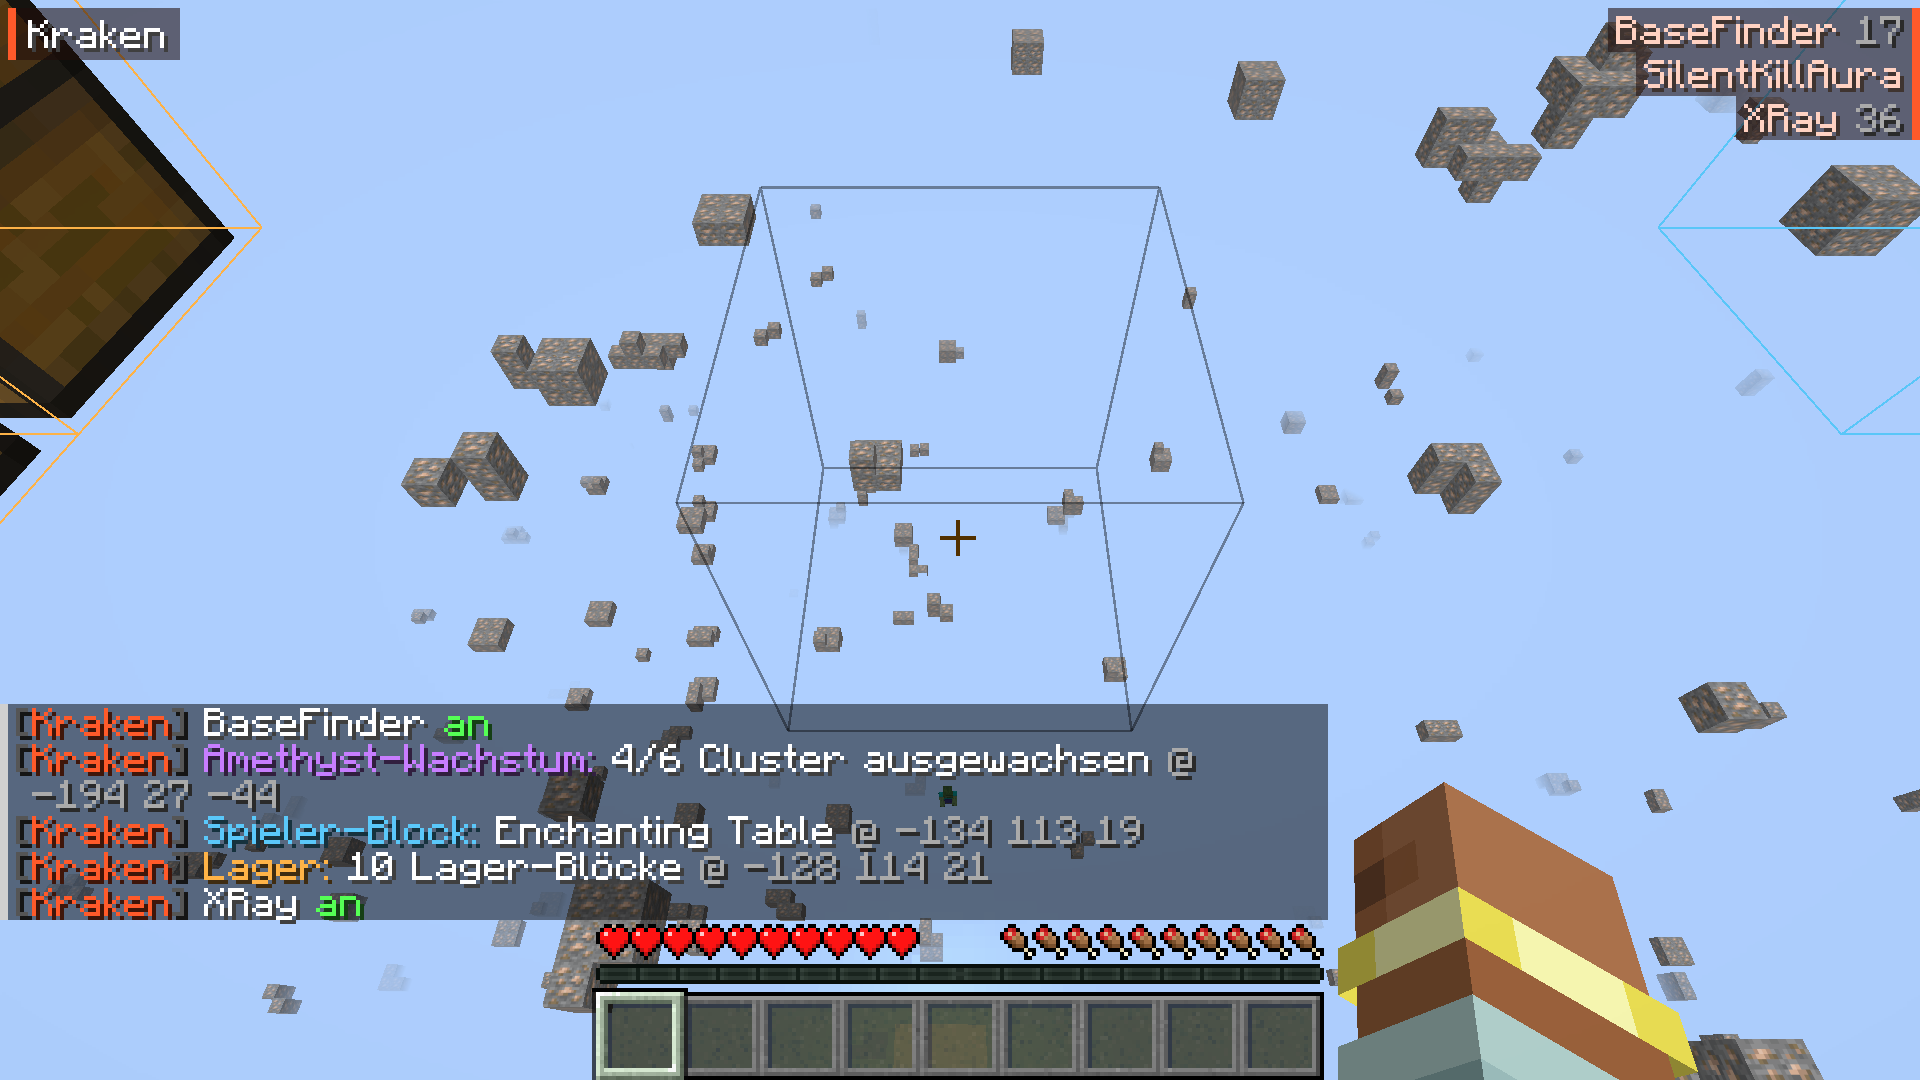
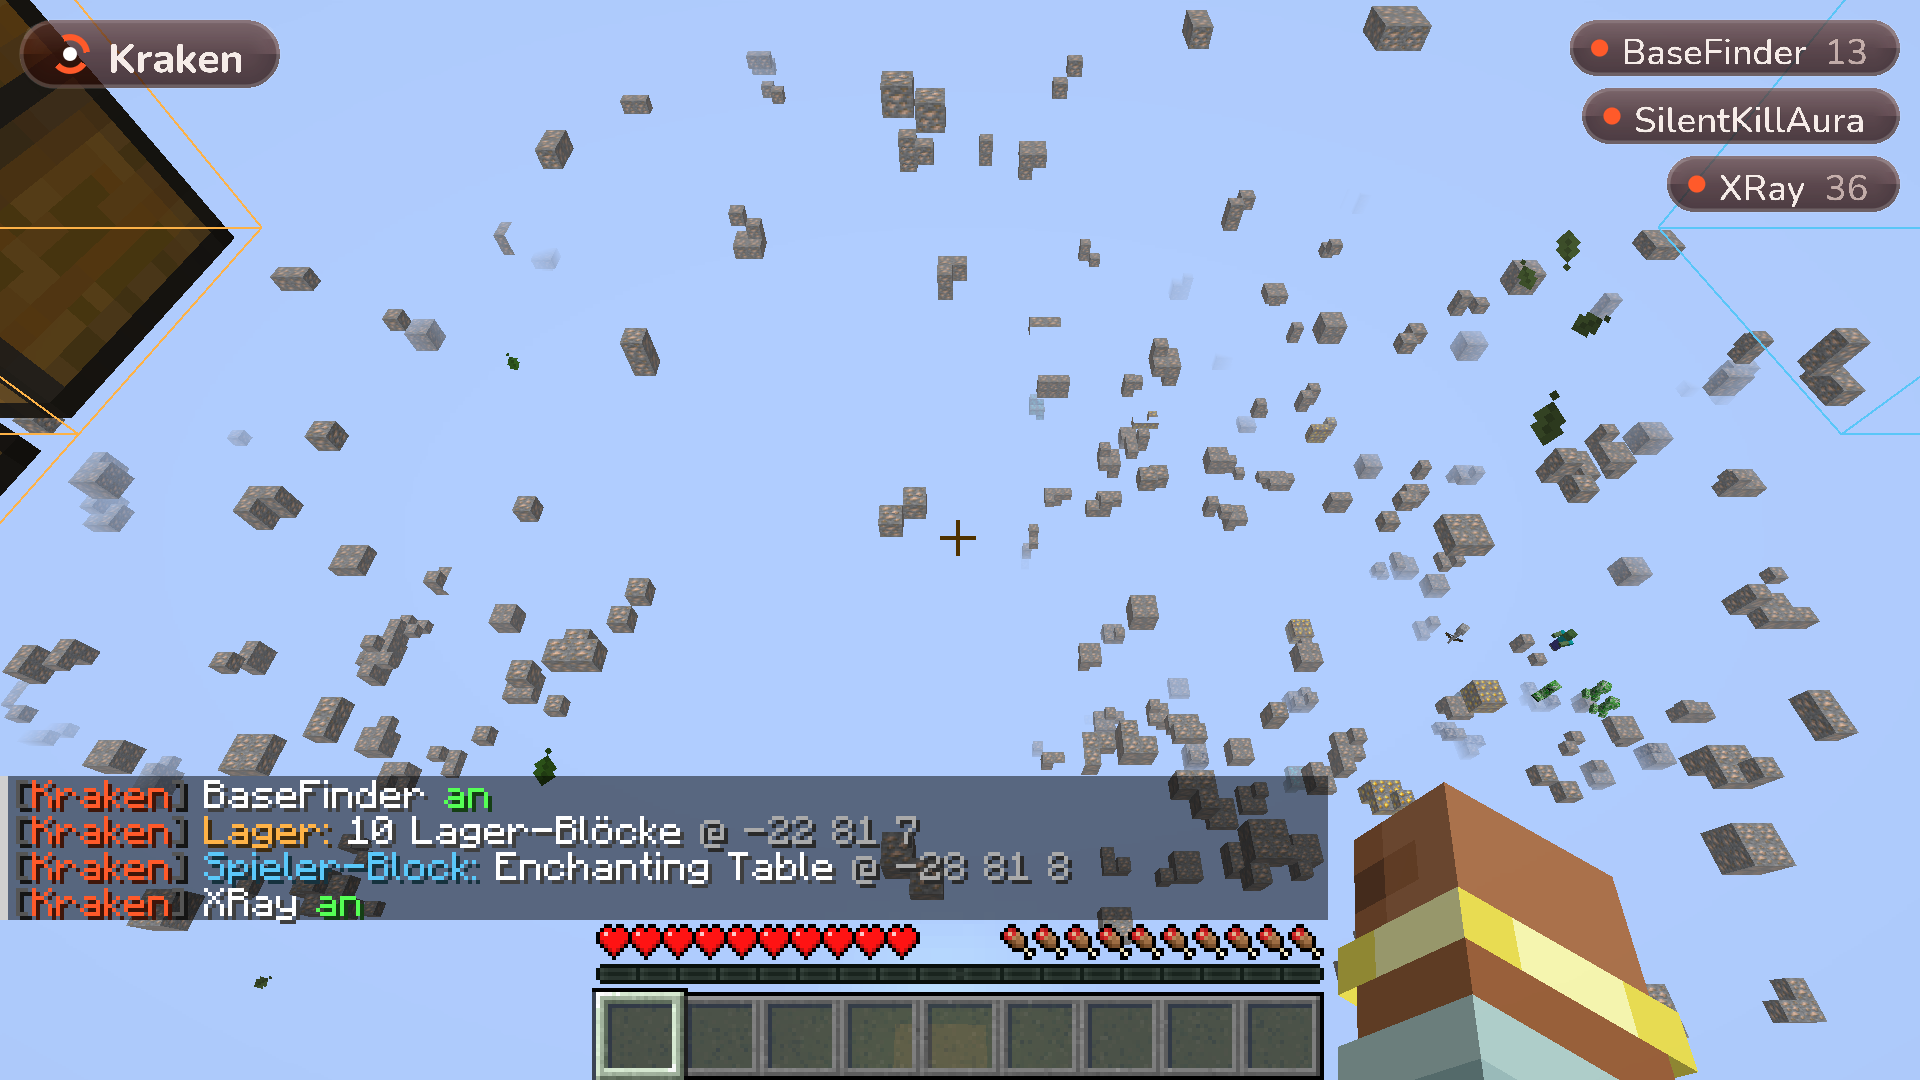
HUD: rounded frosted-glass pills in the style of the wheel
- Watermark pill with an animated orange ring logo and bold Nunito text
- Active modules as glass pills (warm gradient, shine, light rim, orange
  dot, dimmed info), sorted by width, sliding in/out when toggled
- Anti-aliased rounded-rectangle rim and gradient helpers in Shapes;
  shared font helper UiText

Claude-Session: https://claude.ai/code/session_01MUPP6yAn7mZPsT3PjRrRs4

diff --git a/src/main/java/dev/kraken/module/client/Hud.java b/src/main/java/dev/kraken/module/client/Hud.java
@@ -1,5 +1,7 @@
 package dev.kraken.module.client;
 
+import dev.kraken.gui.Shapes;
+import dev.kraken.gui.UiText;
 import dev.kraken.module.Category;
 import dev.kraken.module.Module;
 import dev.kraken.module.ModuleManager;
@@ -9,44 +11,117 @@ import net.minecraft.client.gui.GuiGraphicsExtractor;
 import net.minecraft.world.item.Items;
 
 import java.util.ArrayList;
-import java.util.Comparator;
+import java.util.HashMap;
 import java.util.List;
+import java.util.Map;
 
-/** Watermark + list of active modules in the top right corner. */
+/**
+ * Watermark + list of active modules in the style of the wheel: rounded frosted-glass pills with a
+ * light rim, the clean Nunito font and orange accents. Modules slide in and out when toggled.
+ */
 public class Hud extends Module {
+    private static final int GLASS_TOP = 0xAE4E1E10;
+    private static final int GLASS_BOTTOM = 0xC42C0F08;
+    private static final int RIM = 0x30FFFFFF;
+    private static final int SHINE = 0x16FFFFFF;
+    private static final int ACCENT = 0xFFFF5A2A;
+    private static final int TEXT = 0xFFF6ECE8;
+    private static final int TEXT_DIM = 0xB4F0D8D0;
+
     private final BoolSetting watermark = add(new BoolSetting("Wasserzeichen", "\"Kraken\" oben links anzeigen", true));
     private final BoolSetting moduleList = add(new BoolSetting("Modulliste", "Aktive Module oben rechts anzeigen", true));
+
+    /** 0..1 slide-in progress per module (1 = fully visible). */
+    private final Map<Module, Float> anim = new HashMap<>();
+    private long lastFrame = System.currentTimeMillis();
 
     public Hud() {
         super("HUD", "Wasserzeichen und Liste der aktiven Module.", Category.CLIENT, Items.ITEM_FRAME);
         loadEnabled(true);
     }
 
+    /** A glass pill: vertical gradient body, shine on the upper half, thin light rim. */
+    private static void pill(Shapes s, float x1, float y1, float x2, float y2) {
+        float r = (y2 - y1) / 2f;
+        s.roundRectGradient(x1, y1, x2, y2, r, GLASS_TOP, GLASS_BOTTOM);
+        s.roundRectGradient(x1 + 1f, y1 + 1f, x2 - 1f, y1 + (y2 - y1) * 0.5f, r * 0.8f, SHINE, 0x00FFFFFF);
+        s.roundRectRim(x1, y1, x2, y2, r, 0.75f, RIM);
+    }
+
     public void render(GuiGraphicsExtractor ctx) {
         if (mc.gui.hud.isHidden() || mc.getDebugOverlay().showDebugScreen()) return;
-        Font tr = mc.font;
+        long now = System.currentTimeMillis();
+        float dt = Math.min(0.1f, (now - lastFrame) / 1000f);
+        lastFrame = now;
+        Shapes.setPixelSize(1f / Math.max(1, mc.getWindow().getGuiScale()));
+        Font font = mc.font;
+        float margin = 5f;
+
+        // ---------------- watermark ----------------
         if (watermark.isOn()) {
-            ctx.fill(2, 2, 6 + tr.width("Kraken") + 4, 15, 0x90200C08);
-            ctx.fill(2, 2, 4, 15, 0xFFFF5A2A);
-            ctx.text(tr, "Kraken", 7, 5, 0xFFFFFFFF, true);
+            float h = 17f, x = margin, y = margin;
+            float tw = UiText.width(font, "Kraken", true);
+            float w = 8f + 9f + 5f + tw + 9f;
+            Shapes s = new Shapes();
+            pill(s, x, y, x + w, y + h);
+            // little logo: orange ring segment around a dot, like the wheel centre
+            float lx = x + 8f + 4.5f, ly = y + h / 2f;
+            float t = (now % 6000L) / 6000f * (float) (Math.PI * 2);
+            s.arc(lx, ly, 4.2f, 1.3f, t, t + 1.9f, ACCENT);
+            s.arc(lx, ly, 4.2f, 1.3f, t + 2.6f, t + 4.4f, ACCENT);
+            s.circle(lx, ly, 1.6f, 0xFFFFFFFF);
+            s.submit(ctx);
+            UiText.left(ctx, font, "Kraken", x + 8f + 9f + 5f, ly + 0.5f, 1f, TEXT, true);
         }
         if (!moduleList.isOn()) return;
 
-        List<String> lines = new ArrayList<>();
+        // ---------------- module list ----------------
+        List<Module> shown = new ArrayList<>();
         for (Module m : ModuleManager.get().getModules()) {
-            if (!m.isEnabled() || m.getCategory() == Category.CLIENT) continue;
+            if (m.getCategory() == Category.CLIENT) continue;
+            float a = anim.getOrDefault(m, 0f);
+            float target = m.isEnabled() ? 1f : 0f;
+            a += (target - a) * Math.min(1f, dt * 12f);
+            if (Math.abs(a - target) < 0.005f) a = target;
+            anim.put(m, a);
+            if (a > 0.001f) shown.add(m);
+        }
+        shown.sort((m1, m2) -> Float.compare(pillWidth(font, m2), pillWidth(font, m1)));
+
+        float sw = ctx.guiWidth();
+        float h = 14f, gap = 3f;
+        float y = margin;
+        Shapes s = new Shapes();
+        List<Runnable> texts = new ArrayList<>();
+        for (Module m : shown) {
+            float a = anim.get(m);
+            float e = 1 - (float) Math.pow(1 - a, 3);   // ease out
+            float w = pillWidth(font, m);
+            float x2 = sw - margin + (1 - e) * (w + margin + 4f); // slide in from the right
+            float x1 = x2 - w;
+            float y1 = y, y2 = y + h;
+            pill(s, x1, y1, x2, y2);
+            s.circle(x1 + 7.5f, y1 + h / 2f, 2f, Shapes.alpha(ACCENT, e));
+            String name = m.getName();
             String info = m.getInfo();
-            lines.add(info == null ? m.getName() : m.getName() + " §7" + info);
+            float nx = x1 + 13f;
+            float ty = y1 + h / 2f + 0.5f;
+            int nameColor = Shapes.alpha(TEXT, e), infoColor = Shapes.alpha(TEXT_DIM, e);
+            texts.add(() -> UiText.left(ctx, font, name, nx, ty, 0.9f, nameColor, false));
+            if (info != null) {
+                float ix = nx + UiText.width(font, name, false) * 0.9f + 4f;
+                texts.add(() -> UiText.left(ctx, font, info, ix, ty, 0.9f, infoColor, false));
+            }
+            y += (h + gap) * e;
         }
-        lines.sort(Comparator.comparingInt((String l) -> tr.width(l)).reversed());
-        int y = 2;
-        int sw = ctx.guiWidth();
-        for (String line : lines) {
-            int w = tr.width(line);
-            ctx.fill(sw - w - 6, y, sw, y + 11, 0x90200C08);
-            ctx.fill(sw - 2, y, sw, y + 11, 0xFFFF5A2A);
-            ctx.text(tr, line, sw - w - 4, y + 2, 0xFFFFD2C2, true);
-            y += 11;
-        }
+        s.submit(ctx);
+        for (Runnable r : texts) r.run();
+    }
+
+    private static float pillWidth(Font font, Module m) {
+        float w = UiText.width(font, m.getName(), false) * 0.9f;
+        String info = m.getInfo();
+        if (info != null) w += 4f + UiText.width(font, info, false) * 0.9f;
+        return 13f + w + 8f;
     }
 }

diff --git a/src/main/java/dev/kraken/gui/Shapes.java b/src/main/java/dev/kraken/gui/Shapes.java
@@ -163,6 +163,56 @@ public final class Shapes {
         return this;
     }
 
+
+    /**
+     * Band around a rounded rectangle at distance [dIn, dOut] from its border (positive = outside),
+     * alpha multiplied by mulIn at dIn and mulOut at dOut. Used for rims and soft edges.
+     */
+    private void roundRectBand(float x1, float y1, float x2, float y2, float r, float dIn, float dOut, int color, float mulIn, float mulOut) {
+        int cIn = alpha(color, mulIn), cOut = alpha(color, mulOut);
+        float q = (float) (Math.PI / 2);
+        float k0 = Math.max(0, r + dIn), k1 = Math.max(0, r + dOut);
+        // straight edges
+        quad(x1 + r, y1 + r - k0, cIn, x2 - r, y1 + r - k0, cIn, x2 - r, y1 + r - k1, cOut, x1 + r, y1 + r - k1, cOut);
+        quad(x1 + r, y2 - r + k0, cIn, x2 - r, y2 - r + k0, cIn, x2 - r, y2 - r + k1, cOut, x1 + r, y2 - r + k1, cOut);
+        quad(x1 + r - k0, y1 + r, cIn, x1 + r - k0, y2 - r, cIn, x1 + r - k1, y2 - r, cOut, x1 + r - k1, y1 + r, cOut);
+        quad(x2 - r + k0, y1 + r, cIn, x2 - r + k0, y2 - r, cIn, x2 - r + k1, y2 - r, cOut, x2 - r + k1, y1 + r, cOut);
+        // corners
+        int saved = forcedSteps;
+        forcedSteps = stepsFor(q, r + 1f);
+        sector(x1 + r, y1 + r, k0, k1, 3 * q, 4 * q, 0, cIn, cOut);
+        sector(x2 - r, y1 + r, k0, k1, 0, q, 0, cIn, cOut);
+        sector(x2 - r, y2 - r, k0, k1, q, 2 * q, 0, cIn, cOut);
+        sector(x1 + r, y2 - r, k0, k1, 2 * q, 3 * q, 0, cIn, cOut);
+        forcedSteps = saved;
+    }
+
+    /** Anti-aliased rim (inside the border, width w) of a rounded rectangle. */
+    public Shapes roundRectRim(float x1, float y1, float x2, float y2, float r, float w, int color) {
+        r = Math.min(r, Math.min((x2 - x1) / 2f, (y2 - y1) / 2f));
+        w = Math.min(w, r);
+        roundRectBand(x1, y1, x2, y2, r, -w, 0, color, 1, 1);
+        roundRectBand(x1, y1, x2, y2, r, 0, aa, color, 1, 0);
+        if (r - w - aa >= 0) roundRectBand(x1, y1, x2, y2, r, -w - aa, -w, color, 0, 1);
+        return this;
+    }
+
+    /** Vertical gradient inside a rounded rectangle (glass shine); corners follow the rounding. */
+    public Shapes roundRectGradient(float x1, float y1, float x2, float y2, float r, int top, int bottom) {
+        r = Math.min(r, Math.min((x2 - x1) / 2f, (y2 - y1) / 2f));
+        float h = y2 - y1;
+        int midTop = lerp(top, bottom, r / h), midBottom = lerp(top, bottom, (h - r) / h);
+        gradient(x1 + r, y1, x2 - r, y1 + r, top, top, midTop, midTop);
+        gradient(x1, y1 + r, x2, y2 - r, midTop, midTop, midBottom, midBottom);
+        gradient(x1 + r, y2 - r, x2 - r, y2, midBottom, midBottom, bottom, bottom);
+        float q = (float) (Math.PI / 2);
+        sector(x1 + r, y1 + r, 0, r, 3 * q, 4 * q, 0, midTop, top);
+        sector(x2 - r, y1 + r, 0, r, 0, q, 0, midTop, top);
+        sector(x2 - r, y2 - r, 0, r, q, 2 * q, 0, midBottom, bottom);
+        sector(x1 + r, y2 - r, 0, r, 2 * q, 3 * q, 0, midBottom, bottom);
+        return this;
+    }
+
     public Shapes roundRectOutline(float x1, float y1, float x2, float y2, float r, float w, int color) {
         r = Math.min(r, Math.min((x2 - x1) / 2f, (y2 - y1) / 2f));
         rect(x1 + r, y1, x2 - r, y1 + w, color);

diff --git a/src/main/java/dev/kraken/gui/UiText.java b/src/main/java/dev/kraken/gui/UiText.java
@@ -1,0 +1,33 @@
+package dev.kraken.gui;
+
+import dev.kraken.Kraken;
+import net.minecraft.client.gui.Font;
+import net.minecraft.client.gui.GuiGraphicsExtractor;
+import net.minecraft.network.chat.Component;
+import net.minecraft.network.chat.FontDescription;
+import net.minecraft.resources.Identifier;
+
+/** The clean Nunito font of Kraken, shared by the wheel and the HUD. */
+public final class UiText {
+    public static final FontDescription CLEAN = new FontDescription.Resource(Identifier.fromNamespaceAndPath(Kraken.MOD_ID, "clean"));
+    public static final FontDescription CLEAN_BOLD = new FontDescription.Resource(Identifier.fromNamespaceAndPath(Kraken.MOD_ID, "clean_bold"));
+
+    private UiText() {}
+
+    public static Component styled(String text, boolean bold) {
+        return Component.literal(text).withStyle(s -> s.withFont(bold ? CLEAN_BOLD : CLEAN));
+    }
+
+    public static int width(Font font, String text, boolean bold) {
+        return font.width(styled(text, bold));
+    }
+
+    /** Draws text with its left edge at x and vertically centred on y. */
+    public static void left(GuiGraphicsExtractor ctx, Font font, String text, float x, float y, float scale, int color, boolean bold) {
+        ctx.pose().pushMatrix();
+        ctx.pose().translate(x, y);
+        ctx.pose().scale(scale, scale);
+        ctx.text(font, styled(text, bold), 0, -4, color, false);
+        ctx.pose().popMatrix();
+    }
+}

diff --git a/README.md b/README.md
@@ -6,6 +6,10 @@ Fabric client mod for **Minecraft 26.3** (Java 25, Fabric Loader 0.20+, Fabric A
 |---|---|---|
 | ![Rad](docs/wheel.png) | ![Combat](docs/combat.png) | ![Einstellungen](docs/settings.png) |
 
+| HUD |
+|---|
+| ![HUD](docs/hud.png) |
+
 | BaseFinder (ESP durch Wände) | XRay |
 |---|---|
 | ![BaseFinder](docs/basefinder.png) | ![XRay](docs/xray.png) |
@@ -50,7 +54,7 @@ Alles wird in `config/kraken.json` gespeichert.
   - Chat-Meldungen und Tracer.
 
 ### Client
-- **HUD** – Wasserzeichen + Liste aktiver Module.
+- **HUD** – Wasserzeichen + Liste aktiver Module als abgerundete Glas-Pillen im Stil des Rads (gleitet beim An-/Ausschalten herein/heraus).
 - **Notifications** – Chat-Meldung beim An-/Ausschalten.
 
 ## Bauen
